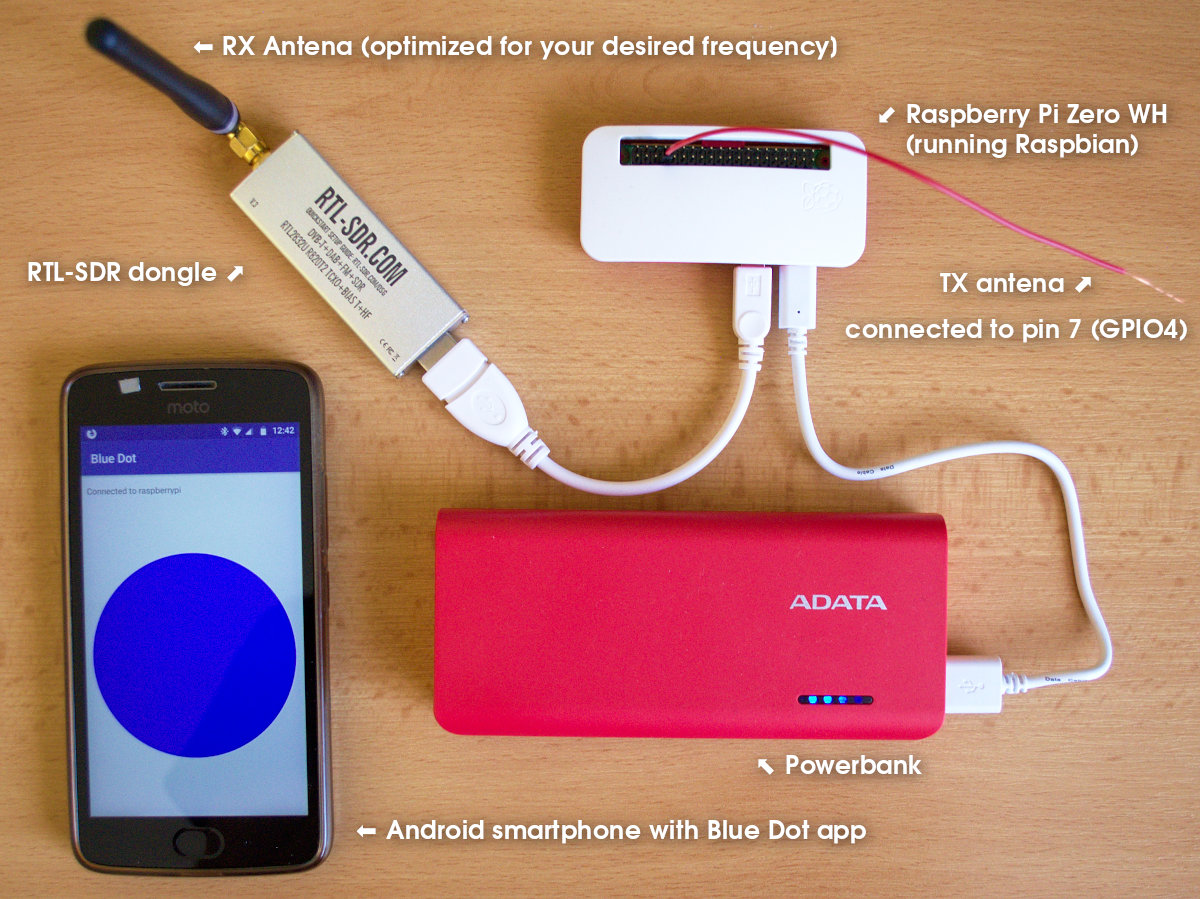
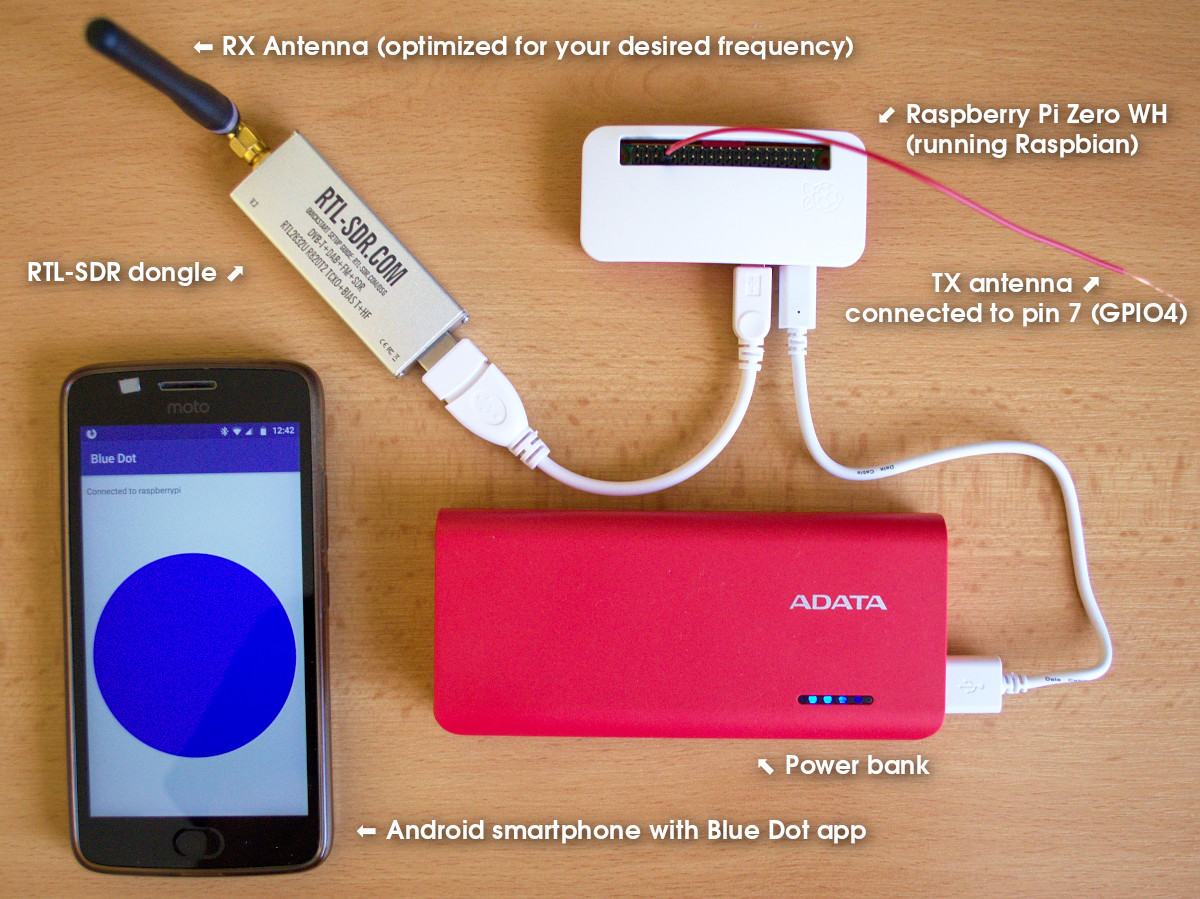
readme: Fix typo in overview picture

Changed region(s): [[0.6783, 0.2803, 1.0, 0.4049], [0.2775, 0.0311, 0.7092, 0.0623], [0.7092, 0.8409, 0.8017, 0.8721]]

diff --git a/README.md b/README.md
@@ -17,6 +17,36 @@ when it should end and then replay it on your discretion.
 Usage
 =====
 
+Rpi-sdr-replay, is composed from two parts:
+
+**Server part** is this rpi-sdr-replay application. It can record and replay radio
+signals on configurable radio frequencies (with this tool, you can record signal on
+one radio frequency and replay it on another radio frequency). The recording and
+replaying is triggered manually by user on his discretion via Bluetooth client app.  
+
+**Client part (Android smartphone app)** is a generic Blue Dot application that is available
+in Google Play Store.
+It doesn't require any special configuration in order to be used with rpi-sdr-replay
+server part. Only requirement is that the smartphone running the Blue Dot and the
+Raspberry Pi running rpi-sdr-replay are paired (how to do that is described in this doc). 
+ 
+**Main features**
+
+* You can record a radio transmission and replay it whenever you want (seconds, minutes, days, moths later). 
+* You can record a radio transmission on one frequency and replay it on another frequency.
+* You can control the recording and replaying remotely via Bluetooth.
+* You don't need Wi-Fi connection with the Raspberry Pi when using and controlling the recording/replaying.
+** The recording and replaying is done just via Bluetooth, you don't need any kind of ssh or
+   a similar connection to your Raspberry Pi system.
+* If you use a power bank to power your Raspberry Pi device, then you can walk around the world and
+  record/replay radio signals freely.
+  
+**Disclaimer:** Different radio frequencies have different terms for usage. Always consult
+your local laws and legal obligations for specific frequencies! Be careful to not cause any
+noise / jamming on any frequencies.
+For transmitting, you are supposed to use an antenna with a proper band-pass filter!
+
+
 Command line (The server part)
 -----------------------------
 
@@ -188,7 +218,7 @@ Python libraries
 *Note: Before you install python modules by pip, you should consider
 use of a python virtual environments. See next section of this readme.*
 
-    $ pip install -r requirements.txt
+    $ pip3 install -r requirements.txt
 
 
 RTL-SDR setup
